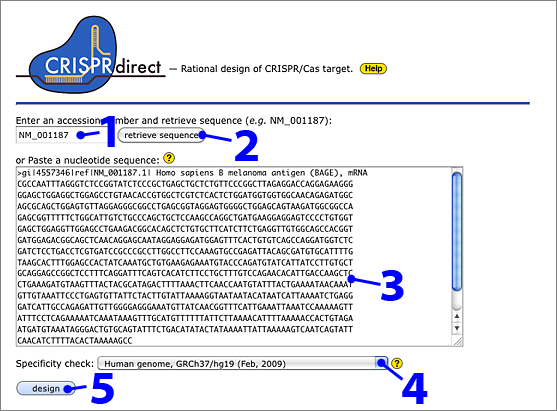
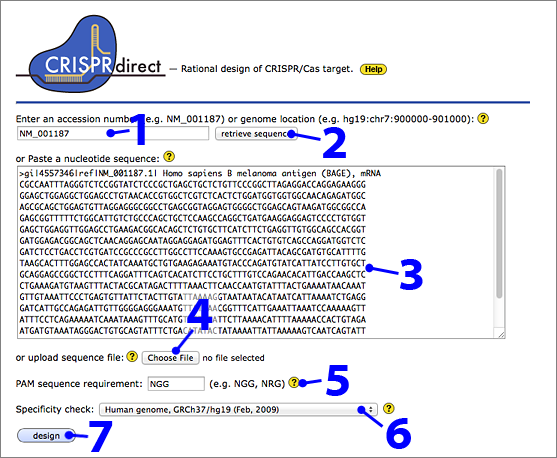
ヘルプを更新、画像を差し替え
配列の入力画面の更新に対応

diff --git a/doc/pam.html b/doc/pam.html
@@ -1,0 +1,78 @@
+<!DOCTYPE HTML PUBLIC '-//W3C//DTD HTML 4.01 Transitional//EN'>
+<html>
+
+<head>
+<meta http-equiv='Content-Type' content='text/html; charset=utf-8'>
+<meta http-equiv='Content-Style-Type' content='text/css'>
+<meta name='author' content='Yuki Naito'>
+<title>CRISPRdirect help</title>
+<style type='text/css'>
+<!--
+	*     { font-family:verdana,arial,helvetica,sans-serif }
+	.mono { font-family:monaco,courier,monospace }
+	.pam  {
+		font-family:inherit;
+		border:1px solid;
+		margin-left:1px;
+		margin-right:1px;
+		padding-left:1px;
+		padding-right:1px;
+	}
+	p,div,ol,ul,h5 { font-size:9pt }
+	table,textarea { font-size:8pt }
+	p,ol,ul { width:90% }
+	a       { text-decoration:none; color:#003399 }
+	a:hover { text-decoration:none; color:maroon  }
+	.b      { text-decoration:none; color:black   }
+	.s      { text-decoration:none; color:gray    }
+	form  { margin:10px 0px }
+	em { background-color:#99FF99; font-style:normal; font-weight:bold }
+	.v { background-color:#E6E6FA }
+	.o { background-color:#FFF0E0 }
+	.g { background-color:#E6FAF2 }
+	.h { background-color:#99FF99 }
+-->
+</style>
+</head>
+
+<body>
+
+<h5>PAM sequence requirement</h5>
+
+<p>
+	An arbitrary 3 nt sequence using IUB codes can be specified in (<font color=blue><b>5</b></font>).
+</p>
+
+<p>
+	Example:
+	<ul>
+		<li>NGG (default)
+		<li>NRG (= NGG or NAG)
+	</ul>
+</p>
+
+<img src='CRISPR_BAGE_fasta.png' width=557 height=458 border=0>
+
+<h5>IUB codes for nucleic acid bases</h5>
+
+<table cellspacing=0 cellpadding=2 width='50%' style='text-align:center'>
+	<tr class=v> <td><b>Code</b></td><td><b>Base</b></td><td><b>Comment</b></td></tr>
+	<tr        > <td><b>G</b></td> <td>G</td>      <td><b>G</b>uanine</td></tr>
+	<tr class=v> <td><b>A</b></td> <td>A</td>      <td><b>A</b>denine</td></tr>
+	<tr        > <td><b>T</b></td> <td>T</td>      <td><b>T</b>hymine</td></tr>
+	<tr class=v> <td><b>C</b></td> <td>C</td>      <td><b>C</b>ytosine</td></tr>
+	<tr        > <td><b>R</b></td> <td>A, G</td>     <td>pu<b>R</b>ines</td></tr>
+	<tr class=v> <td><b>Y</b></td> <td>C, T</td>     <td>p<b>Y</b>rimidines</td></tr>
+	<tr        > <td><b>M</b></td> <td>A, C</td>     <td>a<b>M</b>ino</td></tr>
+	<tr class=v> <td><b>K</b></td> <td>G, T</td>     <td><b>K</b>eto</td></tr>
+	<tr        > <td><b>S</b></td> <td>C, G</td>     <td><b>S</b>trong</td></tr>
+	<tr class=v> <td><b>W</b></td> <td>A, T</td>     <td><b>W</b>eak</td></tr>
+	<tr        > <td><b>H</b></td> <td>A, C, T</td>   <td>not G</td></tr>
+	<tr class=v> <td><b>B</b></td> <td>C, G, T</td>   <td>not A</td></tr>
+	<tr        > <td><b>V</b></td> <td>A, C, G</td>   <td>not T</td></tr>
+	<tr class=v> <td><b>D</b></td> <td>A, G, T</td>   <td>not C</td></tr>
+	<tr        > <td><b>N</b></td> <td>A, C, G, T</td> <td>any</td></tr>
+</table>
+
+</body>
+</html>

diff --git a/doc/accession.html b/doc/accession.html
@@ -37,12 +37,28 @@
 
 <body>
 
-<h5>Input sequence</h5>
+<h5>Accession number &amp; Genome location</h5>
 
 <p>
-	You can directly paste a nucleotide sequence into text field
-	(<font color=blue><b>3</b></font>).<br>
-	FASTA format or a plain nucleotide sequence up to 10 kbp is accepted.
+	Enter an accession number (<i>e.g.</i> NM_001187) or genome location
+	(<i>e.g.</i> hg19:chr7:900000-901000) in (<font color=blue><b>1</b></font>)
+	and click 'retrieve sequence' (<font color=blue><b>2</b></font>).<br>
+</p>
+
+<p>
+	Genome location can be converted into nucleotide sequence for following organisms:
+	<ul>
+		<li><b>hg19</b>    - Human genome, GRCh37/hg19 (Feb, 2009)
+		<li><b>mm10</b>    - Mouse genome, GRCm38/mm10 (Dec, 2011)
+		<li><b>rn5</b>     - Rat genome, RGSC 5.0/rn5 (Mar, 2012)
+		<li><b>galGal4</b> - Chicken genome, ICGSC Gallus_gallus-4.0/galGal4 (Nov, 2011)
+		<li><b>xenTro3</b> - <i>Xenopus tropicalis</i> genome, JGI 4.2/xenTro3 (Nov, 2009)
+		<li><b>danRer7</b> - Zebrafish genome, Zv9/danRer7 (Jul, 2010)
+		<li><b>ci2</b>     - <i>Ciona intestinalis</i> genome, JGI 2.1/ci2 (Mar, 2005)
+		<li><b>dm3</b>     - <i>Drosophila</i> genome, BDGP R5/dm3 (Apr, 2006)
+		<li><b>ce10</b>    - <i>C. elegans</i> genome, WS220/ce10 (Oct, 2010)
+		<li><b>sacCer3</b> - <i>S. cerevisiae</i> (S288C) genome, sacCer3 (Apr, 2011)
+	</ul>
 </p>
 
 <img src='CRISPR_BAGE_fasta.png' width=557 height=458 border=0>

diff --git a/doc/index.html b/doc/index.html
@@ -126,7 +126,11 @@
 	</form>
 
 	<li>Or you can directly paste a nucleotide sequence.<br>
-		FASTA format or a plain nucleotide sequence up to 10 kbp are accepted.
+		FASTA format or a plain nucleotide sequence up to 10 kbp is accepted.
+	<li>Or you can upload a sequence file, in plain text format. (not MS Word .doc file!)<br>
+		FASTA format or a plain nucleotide sequence up to 10 kbp is accepted.
+	<li>PAM sequence requirement (default: NGG).<br>
+		An arbitrary 3 nt sequence using IUB codes (N, R, Y, ...) can be specified.
 	<li>Select 'Human genome, GRCh37/hg19 (Feb, 2009)' to check for off-targets.
 	<li>Click 'design'.
 
@@ -157,7 +161,7 @@ CAACATCTTTTACACTAAAAAGCC
 	</form>
 </ol>
 
-<img src='CRISPR_BAGE_fasta.png' width=557 height=411 border=0>
+<img src='CRISPR_BAGE_fasta.png' width=557 height=458 border=0>
 
 <h5>Results</h5>
 

diff --git a/doc/selectdb.html b/doc/selectdb.html
@@ -40,12 +40,12 @@
 <h5>Specificity check</h5>
 
 <p>
-	Select species from the drop-down list (<font color=blue><b>4</b></font>).<br>
+	Select species from the drop-down list (<font color=blue><b>6</b></font>).<br>
 	The number of target sites (including both on-target and off-target sites)
 	in the selected species is displayed.
 </p>
 
-<img src='CRISPR_BAGE_fasta.png' width=557 height=411 border=0>
+<img src='CRISPR_BAGE_fasta.png' width=557 height=458 border=0>
 
 <h5>Data sources</h5>
 

diff --git a/doc/upload.html b/doc/upload.html
@@ -37,11 +37,11 @@
 
 <body>
 
-<h5>Input sequence</h5>
+<h5>Uploading a sequence file</h5>
 
 <p>
-	You can directly paste a nucleotide sequence into text field
-	(<font color=blue><b>3</b></font>).<br>
+	You can upload a sequence file using upload form (<font color=blue><b>4</b></font>).<br>
+	The file should be plain text, not MS Word .doc file.<br>
 	FASTA format or a plain nucleotide sequence up to 10 kbp is accepted.
 </p>
 
